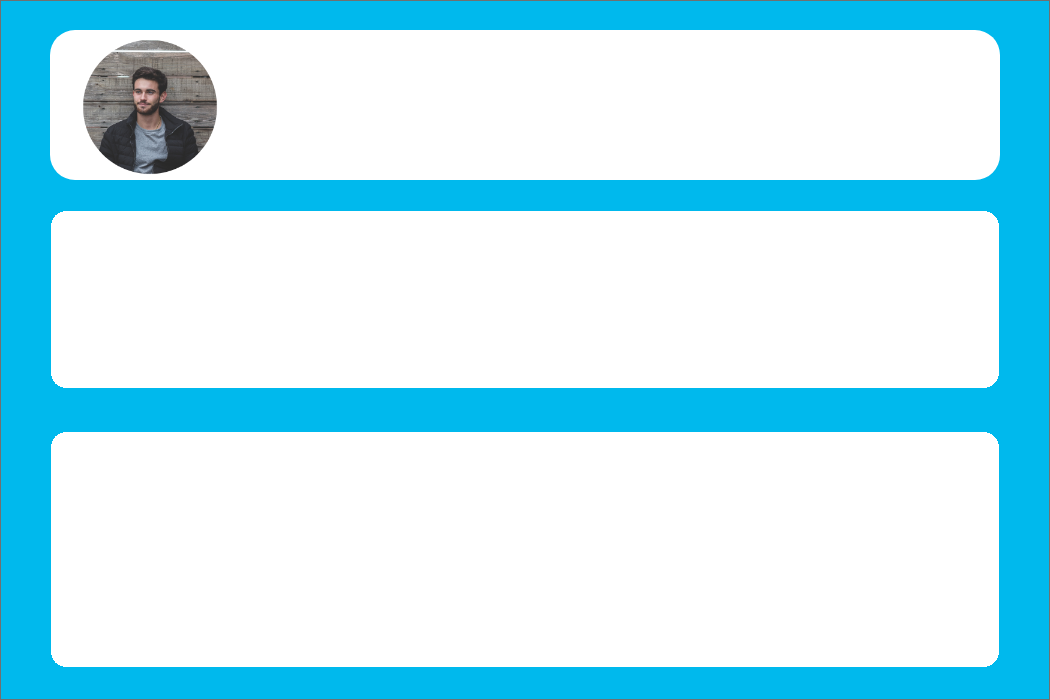
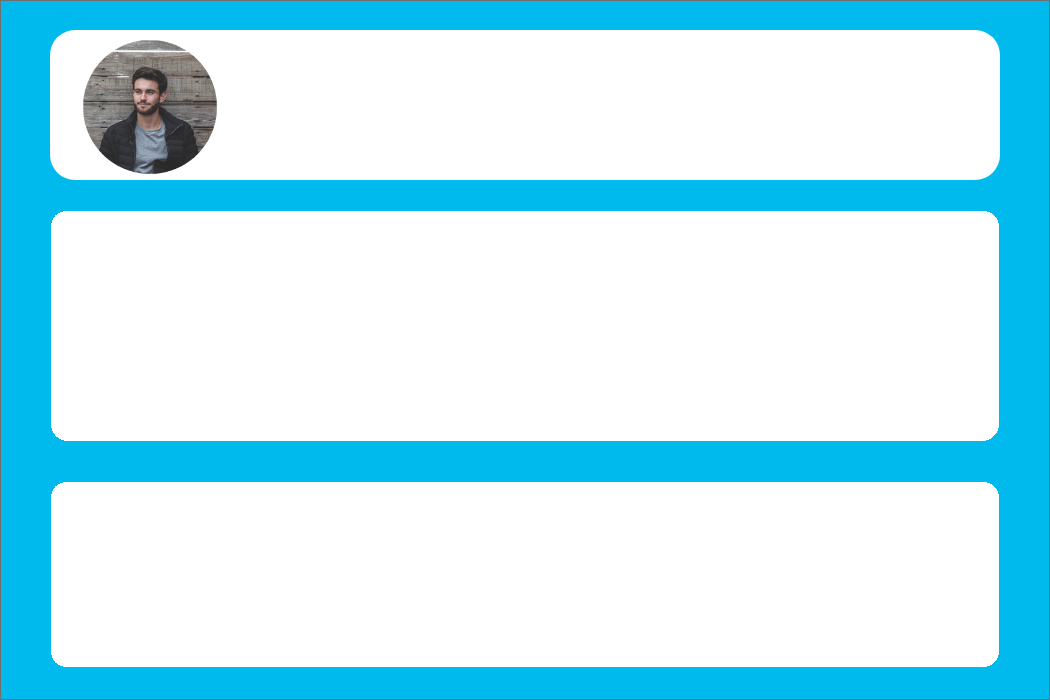
Fill in

Changed region(s): [[0.0305, 0.54, 0.9752, 0.69]]

diff --git a/modules/recruiter.py b/modules/recruiter.py
@@ -353,6 +353,142 @@ def rec(root, email1):
     # lf.place(x=70, y=220)
     lf.place(x=70, y=220)
 
+    
+
+    ### My Entry Grid
+
+    # Configure the grid
+    lf.columnconfigure(0, weight=1)
+    lf.columnconfigure(2, weight=1)
+    lf.columnconfigure(4, weight=1)
+    lf.columnconfigure(1, weight=3)
+    lf.columnconfigure(3, weight=3)
+    lf.columnconfigure(5, weight=3)
+
+    # Column 0
+    Row_ID_label = Label(lf, bg='#FFFFFF', font=('normal', 14, 'bold'), fg="#00B9ED", text="Row ID")
+    Row_ID_label.grid(column=0, row=0, sticky=W)
+
+    Order_ID_label = Label(lf, bg='#FFFFFF', font=('normal', 14, 'bold'), fg="#00B9ED", text="Order ID")
+    Order_ID_label.grid(column=0, row=1, sticky=W)
+
+    Order_Date_label = Label(lf, bg='#FFFFFF', font=('normal', 14, 'bold'), fg="#00B9ED", text="Order Date")
+    Order_Date_label.grid(column=0, row=2, sticky=W)
+
+    Ship_Date_label = Label(lf, bg='#FFFFFF', font=('normal', 14, 'bold'), fg="#00B9ED", text="Ship Date")
+    Ship_Date_label.grid(column=0, row=3, sticky=W)
+    
+    ShipMode_ID_label = Label(lf, bg='#FFFFFF', font=('normal', 14, 'bold'), fg="#00B9ED", text="Ship Mode")
+    ShipMode_ID_label.grid(column=0, row=4, sticky=W)
+    
+    Customer_ID_label = Label(lf, bg='#FFFFFF', font=('normal', 14, 'bold'), fg="#00B9ED", text="Customer ID")
+    Customer_ID_label.grid(column=0, row=5, sticky=W)
+    
+    # Colum 1
+    Row_ID_entry = Entry(lf,  width=15, placeholder="Enter Row ID")
+    Row_ID_entry.grid(column=1, row=0, sticky=W)
+
+    Order_ID_entry = Entry(lf,  width=15, placeholder="E.g: CA-2017-152156")
+    Order_ID_entry.grid(column=1, row=1, sticky=W)
+
+    Order_Date_entry = Entry(lf,  width=15, placeholder="E.g: 11/8/2017")
+    Order_Date_entry.grid(column=1, row=2, sticky=W)
+
+    Ship_Date_entry = Entry(lf,  width=15, placeholder="E.g: 11/11/2017")
+    Ship_Date_entry.grid(column=1, row=3, sticky=W)
+
+    # Combobox
+    ShipMode_ID_cbbox = ttk.Combobox(lf, values = [1, 2, 3, 4], 
+                    font=('normal', 13), width=16)
+    ShipMode_ID_cbbox.grid(column=1, row=4, sticky=W)
+    
+    Customer_ID_entry = Entry(lf,  width=15, placeholder="E.g: CG-12520")
+    Customer_ID_entry.grid(column=1, row=5, sticky=W)
+    
+
+
+    # Column 2
+    Segment_ID_label = Label(lf, bg='#FFFFFF', font=('normal', 14, 'bold'), fg="#00B9ED", text="Segment")
+    Segment_ID_label.grid(column=2, row=0, padx = (30, 0), sticky=W)
+
+    City_ID_label = Label(lf, bg='#FFFFFF', font=('normal', 14, 'bold'), fg="#00B9ED", text="City ID")
+    City_ID_label.grid(column=2, row=1, padx = (30, 0), sticky=W)
+
+    State_ID_label = Label(lf, bg='#FFFFFF', font=('normal', 14, 'bold'), fg="#00B9ED", text="State ID")
+    State_ID_label.grid(column=2, row=2, padx = (30, 0), sticky=W)
+
+    Postal_Code_label = Label(lf, bg='#FFFFFF', font=('normal', 14, 'bold'), fg="#00B9ED", text="Postal Code")
+    Postal_Code_label.grid(column=2, row=3, padx = (30, 0), sticky=W)
+    
+    Region_ID_label = Label(lf, bg='#FFFFFF', font=('normal', 14, 'bold'), fg="#00B9ED", text="Region ID")
+    Region_ID_label.grid(column=2, row=4, padx = (30, 0), sticky=W)
+    
+    Product_ID_label = Label(lf, bg='#FFFFFF', font=('normal', 14, 'bold'), fg="#00B9ED", text="Product ID")
+    Product_ID_label.grid(column=2, row=5, padx = (30, 0), sticky=W)
+
+
+    # Column 3
+    Segment_ID_cbbox = ttk.Combobox(lf, values = [1, 2, 3], 
+                    font=('normal', 13), width=16)
+    Segment_ID_cbbox.grid(column=3, row=0, sticky=W)
+
+    City_ID_entry = Entry(lf,  width=15, placeholder="E.g: 3")
+    City_ID_entry.grid(column=3, row=1, sticky=W)
+
+    State_ID_entry = Entry(lf,  width=15, placeholder="E.g: 37")
+    State_ID_entry.grid(column=3, row=2, sticky=W)
+
+    Postal_Code_entry = Entry(lf,  width=15, placeholder="E.g: 90032")
+    Postal_Code_entry.grid(column=3, row=3, sticky=W)
+
+    Region_ID_cbbox = ttk.Combobox(lf, values = [1, 2, 3, 4], 
+                    font=('normal', 13), width=16)
+    Region_ID_cbbox.grid(column=3, row=4, sticky=W)
+
+    Product_ID_entry = Entry(lf,  width=15, placeholder="E.g: CA-2017-152156")
+    Product_ID_entry.grid(column=3, row=5, sticky=W)
+
+    # Column 4
+    Category_ID_label = Label(lf, bg='#FFFFFF', font=('normal', 14, 'bold'), fg="#00B9ED", text="Category ID")
+    Category_ID_label.grid(column=4, row=0, padx = (30, 0), sticky=W)
+
+    SubCategory_ID_label = Label(lf, bg='#FFFFFF', font=('normal', 14, 'bold'), fg="#00B9ED", text="Sub-Cat ID")
+    SubCategory_ID_label.grid(column=4, row=1, padx = (30, 0), sticky=W)
+
+    Sales_label = Label(lf, bg='#FFFFFF', font=('normal', 14, 'bold'), fg="#00B9ED", text="Sales ($)")
+    Sales_label.grid(column=4, row=2, padx = (30, 0), sticky=W)
+
+    Quantity_label = Label(lf, bg='#FFFFFF', font=('normal', 14, 'bold'), fg="#00B9ED", text="Quantity")
+    Quantity_label.grid(column=4, row=3, padx = (30, 0), sticky=W)
+
+    Discount_label = Label(lf, bg='#FFFFFF', font=('normal', 14, 'bold'), fg="#00B9ED", text="Discount")
+    Discount_label.grid(column=4, row=4, padx = (30, 0), sticky=W)
+
+    Profit_label = Label(lf, bg='#FFFFFF', font=('normal', 14, 'bold'), fg="#00B9ED", text="Profit")
+    Profit_label.grid(column=4, row=5, padx = (30, 0), sticky=W)
+
+    # Column 5
+    Category_ID_cbbox = ttk.Combobox(lf, values = [1, 2, 3], 
+                    font=('normal', 13), width=16)
+    Category_ID_cbbox.grid(column=5, row=0, sticky=W)
+    
+    Sub_Category_values = [x for x in range(1, 18)]
+    SubCategory_ID_entry = ttk.Combobox(lf, values = Sub_Category_values, 
+                    font=('normal', 13), width=16)
+    SubCategory_ID_entry.grid(column=5, row=1, sticky=W)
+
+    Sales_entry = Entry(lf,  width=15, placeholder="E.g: 48.86")
+    Sales_entry.grid(column=5, row=2, sticky=W)
+
+    Quantity_entry = Entry(lf,  width=15, placeholder="E.g: 7")
+    Quantity_entry.grid(column=5, row=3, sticky=W)
+
+    Discount_entry = Entry(lf,  width=15, placeholder="E.g: 0.45")
+    Discount_entry.grid(column=5, row=4, sticky=W)
+
+    Profit_entry = Entry(lf,  width=15, placeholder="E.g: 34.47")
+    Profit_entry.grid(column=5, row=5, sticky=W)
+
     # cj = Button(lf, text="Post a Job", font=(
     #     'normal', 20), bg="#b32e2e", fg="#ffffff", command=create)
     # cj.grid(row=0, column=0, padx=80, pady=40)
@@ -371,7 +507,7 @@ def rec(root, email1):
     # rt = Frame(root, width=95, height=200, bg="#ff33ff")
     # rt.place(x=60, y=520)
     tab = Frame(root, bg="#ff33ff")
-    tab.place(x=70, y=441, width=920, height=222)
+    tab.place(x=70, y=492, width=920, height=170)
     
     """
     bgrf = Frame(root, width=540, height=420)

diff --git a/cv_schema_init.py b/cv_schema_init.py
@@ -21,6 +21,7 @@ CREATE TABLE IF NOT EXISTS mydb.Users(
 Create_Entry_Table = """
 CREATE TABLE IF NOT EXISTS mydb.Entry (
   Row_ID INT NOT NULL AUTO_INCREMENT,
+  Order_ID VARCHAR(20) NOT NULL,
 
   Order_Date DATE NOT NULL,
   Ship_Date	DATE NOT NULL,
